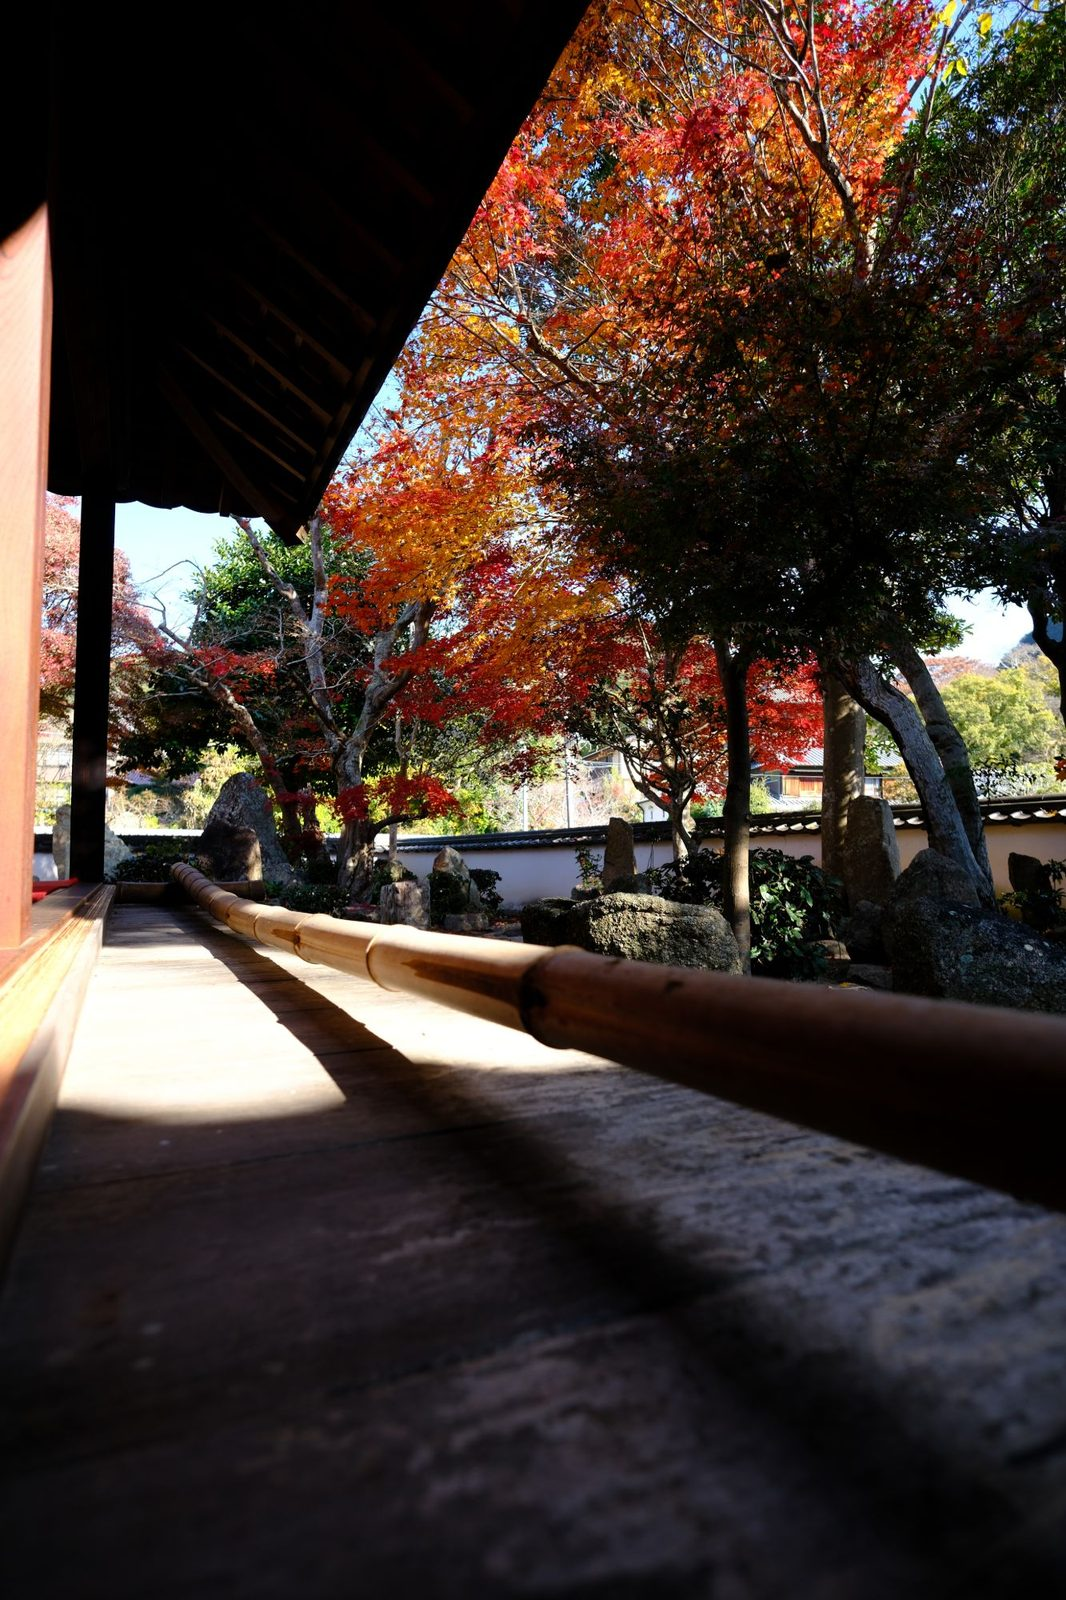
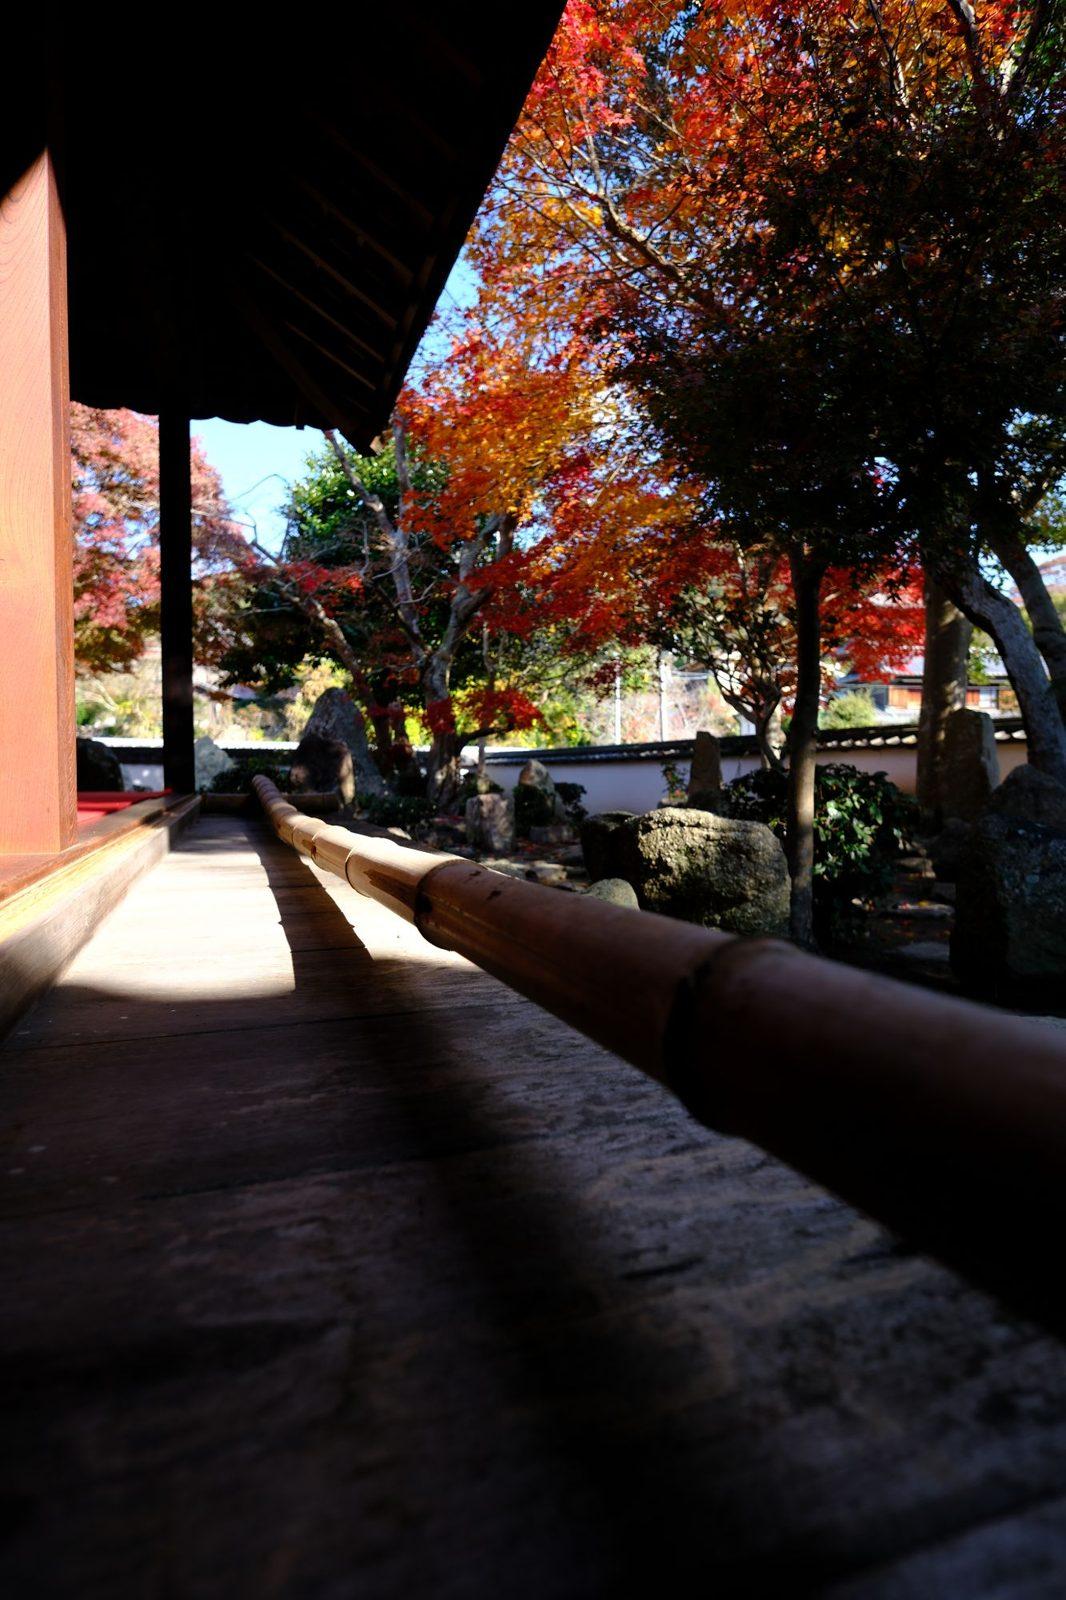
トップを紅葉の写真に変更
Claude-Session: https://claude.ai/code/session_0185uNZ5KLtNXPQ2uT1EDMto

diff --git a/css/style.css b/css/style.css
@@ -51,21 +51,25 @@ a { color: inherit; }
 .nav-toggle[aria-expanded="true"] span:last-child { top: 22px; transform: rotate(-30deg); }
 
 /* ---------- ヒーロー ---------- */
-.hero { position: relative; height: 100svh; min-height: 560px; overflow: hidden; }
-.hero-art { position: absolute; inset: 0; width: 100%; height: 100%; }
+.hero { position: relative; height: 100svh; min-height: 560px; overflow: hidden; background: #2b2d26; color: #fff; }
+.hero-art { position: absolute; inset: 0; width: 100%; height: 100%; object-fit: cover; object-position: 50% 40%; }
+.hero::after {
+  content: ""; position: absolute; inset: 0;
+  background: linear-gradient(90deg, rgba(20,18,14,.15) 0%, rgba(20,18,14,.3) 45%, rgba(20,18,14,.62) 100%);
+}
 .hero-copy {
-  position: absolute; top: 50%; right: 12%; transform: translateY(-54%);
+  position: absolute; z-index: 1; top: 50%; right: 12%; transform: translateY(-50%);
   display: flex; flex-direction: row-reverse; align-items: flex-start; gap: 40px;
-  font-family: var(--mincho);
+  font-family: var(--mincho); text-shadow: 0 1px 18px rgba(0,0,0,.55);
 }
 .hero-copy > * { writing-mode: vertical-rl; margin: 0; }
-.hero-label { font-size: 13px; letter-spacing: .4em; color: var(--shu); padding-top: 6px; }
+.hero-label { font-size: 13px; letter-spacing: .4em; padding-top: 6px; opacity: .9; }
 .hero-title { font-size: clamp(48px, 7vw, 88px); letter-spacing: .24em; line-height: 1.2; }
 .hero-title span { display: inline-block; }
-.hero-title span:first-child { font-size: .4em; letter-spacing: .5em; color: var(--ink-soft); margin-bottom: 1.2em; }
+.hero-title span:first-child { font-size: .4em; letter-spacing: .5em; opacity: .9; margin-bottom: 1.2em; }
 .hero-lead { padding-top: 7em; font-size: clamp(16px, 1.8vw, 20px); letter-spacing: .36em; line-height: 2.4; }
-.scroll-cue { position: absolute; left: 50%; bottom: 0; width: 44px; height: 80px; transform: translateX(-50%); }
-.scroll-cue span { position: absolute; left: 50%; top: 0; width: 1px; height: 100%; background: var(--ink); opacity: .5; transform-origin: top; animation: cue 2.4s ease-in-out infinite; }
+.scroll-cue { position: absolute; z-index: 1; left: 50%; bottom: 0; width: 44px; height: 80px; transform: translateX(-50%); }
+.scroll-cue span { position: absolute; left: 50%; top: 0; width: 1px; height: 100%; background: #fff; opacity: .7; transform-origin: top; animation: cue 2.4s ease-in-out infinite; }
 @keyframes cue { 0% { transform: scaleY(0); } 50% { transform: scaleY(1); } 100% { transform: scaleY(1); opacity: 0; } }
 
 /* ---------- セクション共通 ---------- */
@@ -172,7 +176,9 @@ dd { margin: 0; }
   }
   .nav.open { display: flex; }
   .nav a { padding: 14px 0; border-bottom: 1px solid var(--line); }
-  .hero-copy { right: 50%; transform: translate(50%, -62%); gap: 20px; }
+  .hero-copy { right: 50%; transform: translate(50%, -50%); gap: 20px; }
+  .hero-art { object-position: 62% 50%; }
+  .hero::after { background: rgba(20,18,14,.42); }
   .hero-lead { padding-top: 5em; }
   .two-col, .access-grid { grid-template-columns: 1fr; gap: 28px; }
   .garden-grid { grid-template-columns: 1fr; }

diff --git a/index.html b/index.html
@@ -38,38 +38,7 @@
 
 <!-- ============ ヒーロー ============ -->
 <section class="hero">
-  <svg class="hero-art" viewBox="0 0 1600 900" preserveAspectRatio="xMidYMid slice" aria-hidden="true">
-    <defs>
-      <linearGradient id="sky" x1="0" y1="0" x2="0" y2="1">
-        <stop offset="0" stop-color="#ebe5d6"/>
-        <stop offset="1" stop-color="#f4f0e6"/>
-      </linearGradient>
-      <linearGradient id="fade" x1="0" y1="0" x2="0" y2="1">
-        <stop offset="0" stop-color="#f4f0e6" stop-opacity="0"/>
-        <stop offset="1" stop-color="#f4f0e6"/>
-      </linearGradient>
-    </defs>
-    <rect width="1600" height="900" fill="url(#sky)"/>
-    <!-- 月 -->
-    <circle cx="1180" cy="230" r="120" fill="#a4442f" opacity=".13"/>
-    <!-- 遠山 -->
-    <path d="M0 520 C200 430 330 470 480 420 C640 365 760 455 900 430 C1080 398 1220 330 1380 400 C1480 444 1540 430 1600 440 V900 H0Z" fill="#5b6b4a" opacity=".16"/>
-    <path d="M0 580 C180 520 380 560 560 520 C760 476 900 540 1100 510 C1300 480 1450 520 1600 500 V900 H0Z" fill="#5b6b4a" opacity=".2"/>
-    <!-- 苔地 -->
-    <path d="M0 740 C300 700 620 722 900 712 C1200 700 1400 730 1600 716 V900 H0Z" fill="#5b6b4a" opacity=".22"/>
-    <!-- 石組（三尊石・鶴島・亀島） -->
-    <g fill="#23211d">
-      <g transform="translate(250 0)">
-        <path d="M352 722 C356 640 388 574 424 570 C458 567 486 640 500 722Z" opacity=".84"/>
-        <path d="M486 724 C494 676 512 650 532 654 C550 658 560 694 564 724Z" opacity=".72"/>
-        <path d="M296 724 C302 690 320 672 338 676 C352 680 358 704 360 724Z" opacity=".64"/>
-      </g>
-      <path d="M1000 752 C1010 724 1050 712 1100 716 C1150 720 1190 734 1200 752Z" opacity=".7"/>
-      <path d="M250 760 C254 716 264 690 276 692 C288 694 296 724 300 760Z" opacity=".6"/>
-      <path d="M296 762 C302 744 318 736 334 740 C346 743 352 752 354 762Z" opacity=".5"/>
-    </g>
-    <rect y="760" width="1600" height="140" fill="url(#fade)"/>
-  </svg>
+  <img class="hero-art" src="images/hero.jpg" alt="書院の縁側から眺める紅葉の安養院庭園" width="1333" height="2000" fetchpriority="high">
 
   <div class="hero-copy">
     <p class="hero-label">国指定名勝　安養院庭園</p>
